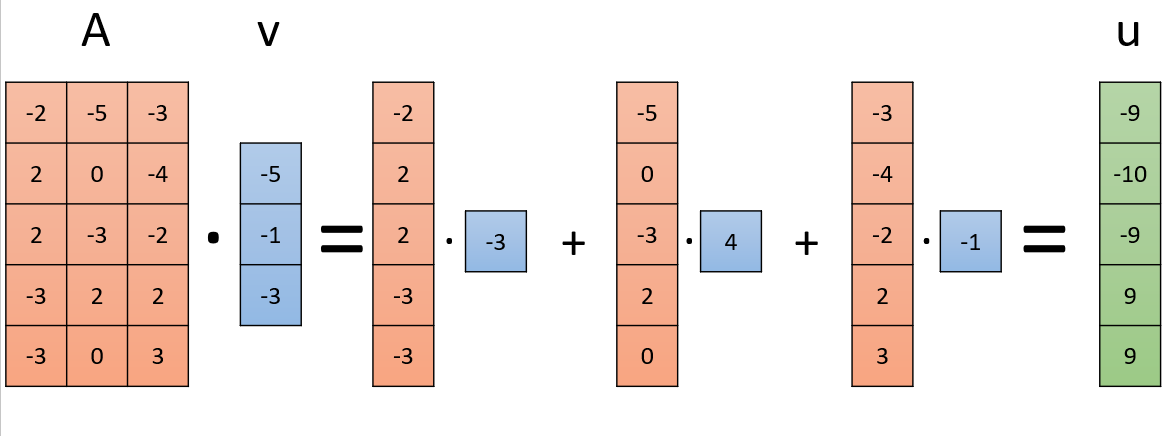
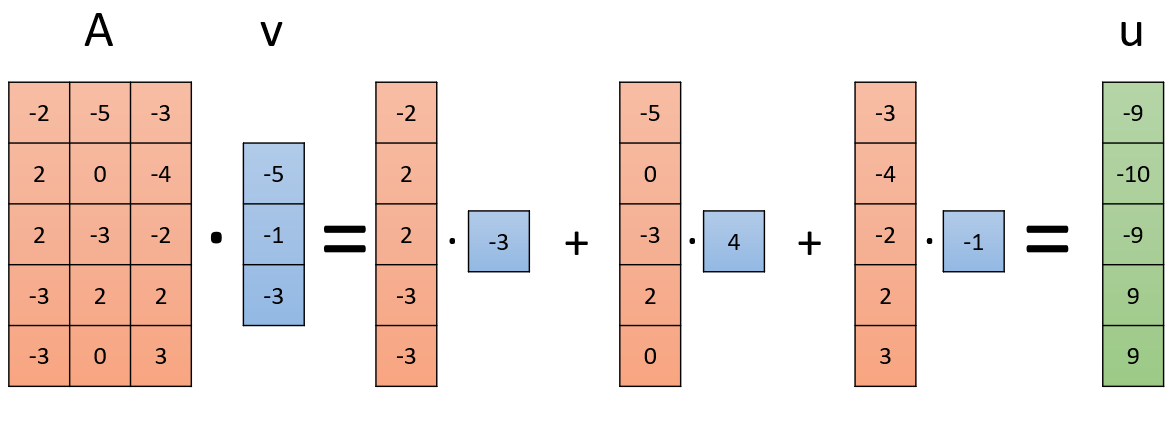
Border fix, removed WIP text

diff --git a/_posts/2022-10-28-matrix-multiplication.md b/_posts/2022-10-28-matrix-multiplication.md
@@ -1,6 +1,6 @@
 ---
 layout: post
-title: (Work in progress) How to Think About Matrix Multiplication
+title: How to Think About Matrix Multiplication
 ---
 
 Matrix multiplication is one of the concepts where reading the formula is easy, but developing intuition takes more time. Since it is such a common concept in linear algebra, in this post we try to develop a better intuition for it.
